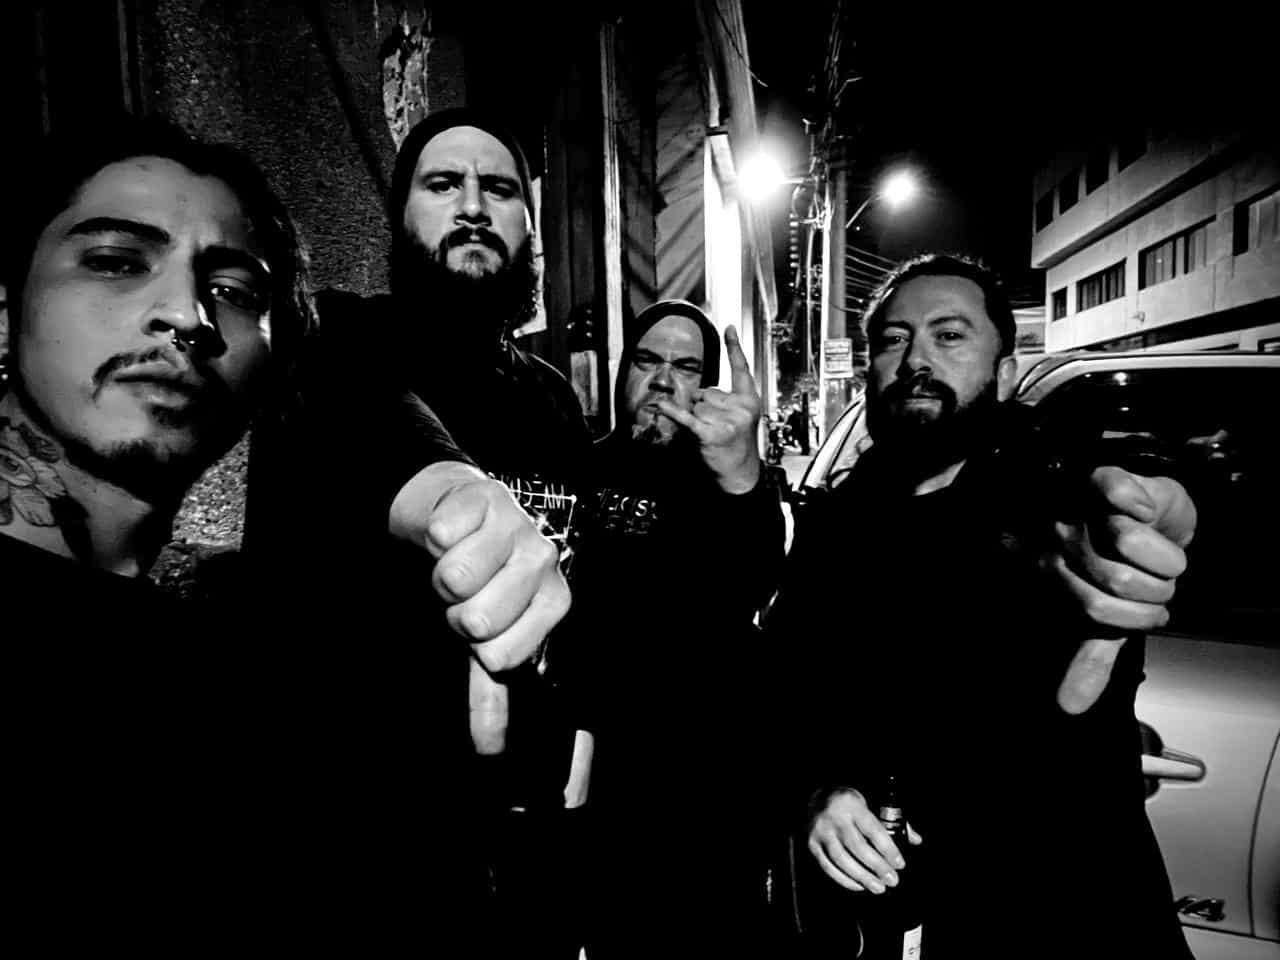
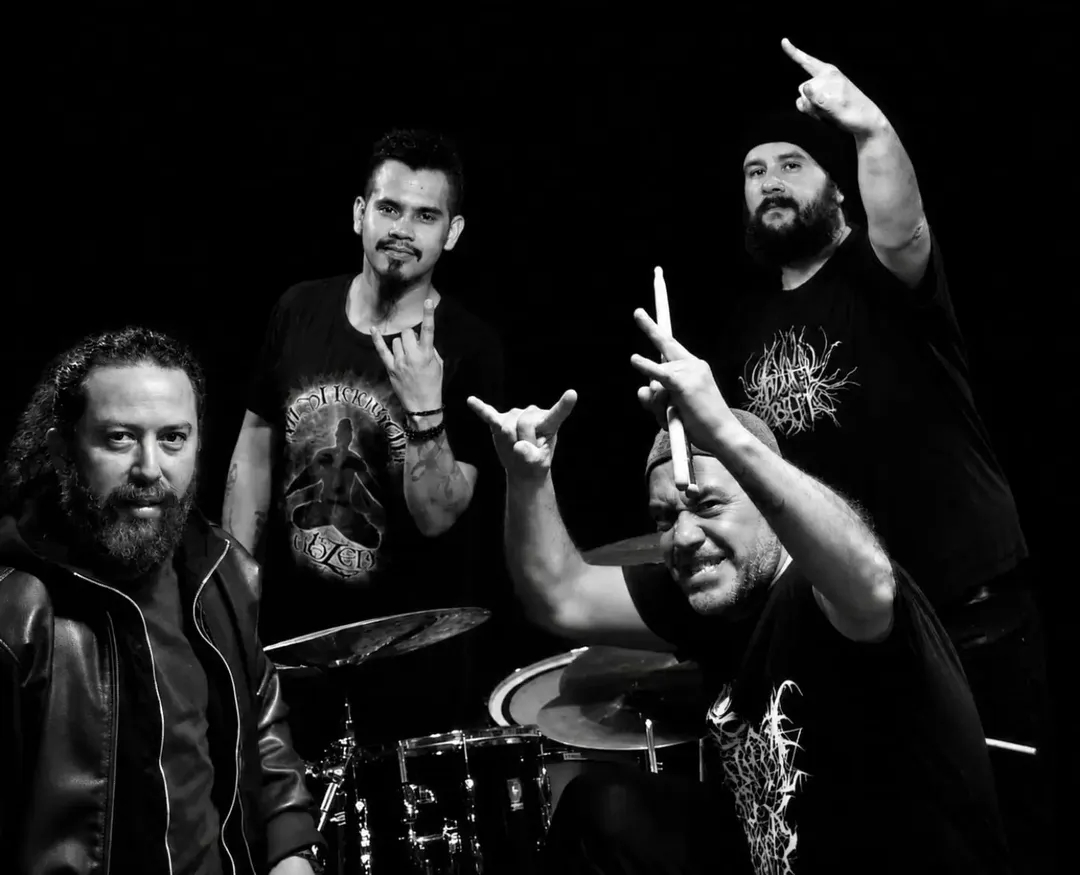
v0.1.0

diff --git a/src/sections/About.jsx b/src/sections/About.jsx
@@ -6,15 +6,20 @@ function About() {
     <section id="about" className="section section--muted">
       <div className="container two-columns">
         <div className="band-image">
-          <img src="/assets/Band.jpg" alt="Swarm Of Hatred 2025" />
+          <img src="/assets/Band.jpg" alt="Swarm Of Hatred 2026" />
         </div>
 
         <div>
           <SectionTitle
             eyebrow="About"
             title="Darkness, dissonance and devotion"
-            text="Swarm Of Hatred was conceived in 2009 in Santiago, Chile, as a solitary expression of dissonance and hostility. 
-            In 2011, the project was reborn under its current name, embracing a more focused and obscure vision. The debut manifestation, The Brotherhood Of The Black Blood (2014), marked the emergence of its sound, followed by Shrine Of Negativity (2018), expanding its sonic and conceptual depth. After years of silence, Obsidian Corridors (2021) surfaced as a transitional work, bridging past and future. A new full-length is currently in preparation."
+            text={`Swarm Of Hatred was conceived in 2009 in Santiago, Chile, as a solitary expression of dissonance and hostility.
+
+          In 2011, the project was reborn under its current name, embracing a more focused and obscure vision. The debut manifestation, The Brotherhood Of The Black Blood (2014), marked the emergence of its sound, followed by Shrine Of Negativity (2018), expanding its sonic and conceptual depth.
+
+          After years of silence, Obsidian Corridors (2021) surfaced as a transitional work, bridging past and future.
+
+          In 2026, Swarm Of Hatred unleashed “The Rise Of The Black Serpents,” the first single from its forthcoming second full-length album, Transdimensional Warmachine. This new chapter pushes the band's sonic identity further into dissonance, oppressive atmospheres, and otherworldly dimensions, heralding a new era of sonic devastation.`}
           />
 
           <p>
@@ -28,8 +33,8 @@ function About() {
             <b>Members:</b><br/>
             SDP - Guitars & Vocals<br/>
             CHJ - Lead Guitars<br/>
-            Benjamin Aguilera - Bass<br/>
-            Machinegun - Drums<br/>
+            Andres Lopez - Bass<br/>
+            Carlos Mendez - Drums<br/>
           </p>
         </div>
       </div>

diff --git a/src/data/siteData.js b/src/data/siteData.js
@@ -38,6 +38,13 @@ export const releases = [
     cover: '/assets/EP2021.jpg',
     description: 'Featuring two new songs and two old songs from The Brotherhoood Of The Black Blood era.'
   },
+  {
+    title: 'The Rise Of The Black Serpents',
+    year: '2026',
+    format: 'SINGLE',
+    cover: '/assets/SN2026.png',
+    description: 'First single from the forthcoming album, a glimpse into darkness and dissonance.'
+  },
   /*{
     title: 'Transdimensional Warmachine',
     year: 'TBA',
@@ -49,9 +56,15 @@ export const releases = [
 
 export const liveDates = [
   {
+    date: '2026-10-31',
+    city: 'Santiago, RM',
+    venue: 'Sala Warehouse',
+    note: `ECHOES OF DECADENCE II - Feat. Kythrone, Gutural Torment.`
+  },
+  {
     date: '2026-04-24',
     city: 'Santiago, RM',
     venue: 'La Comarca',
-    note: `FIGHT TILL DEATH VOL. I - Feat. Slaughterhouse, Camahueto, Dark Seducer y Death's Revenge.`
-  }
+    note: `FIGHT TILL DEATH VOL. I - Feat. Slaughterhouse, Camahueto, Dark Seducer & Death's Revenge.`
+  }  
 ];

diff --git a/src/styles/global.css b/src/styles/global.css
@@ -182,6 +182,10 @@ main {
   font-size: 1rem;
 }
 
+#about .section-title p {
+  white-space: pre-line;
+}
+
 .hero__text {
   max-width: 700px;
   margin-top: 1.5rem;
@@ -550,5 +554,4 @@ main {
       );
   }
 }
-
 

diff --git a/README.md b/README.md
@@ -1,47 +1,169 @@
 # Swarm Of Hatred
 
-SPA hecha con React + Vite para el sitio oficial de la banda.
+Sitio oficial de **Swarm Of Hatred**, banda chilena de black metal. Es una SPA estatica creada para concentrar la presentacion de la banda, su musica, discografia, canales sociales y datos de contacto en una sola pagina.
+
+No hay backend, autenticacion, base de datos ni formulario que procese informacion: el contenido se publica desde el codigo fuente y los enlaces llevan a servicios externos.
+
+## Que muestra el sitio
+
+- **Portada:** nombre de la banda, genero, procedencia, descripcion, accesos a musica y contacto, y redes sociales.
+- **About:** biografia, declaracion artistica e integrantes.
+- **Music:** reproductor embebido de Spotify para el perfil de artista.
+- **Discography:** lanzamientos con portada, ano, formato y descripcion. Se presentan del mas reciente al mas antiguo en un carrusel horizontal que admite arrastre con mouse y desplazamiento nativo en pantallas tactiles.
+- **Contact:** enlace `mailto:` para booking, prensa y consultas, junto con las redes sociales.
+- **Pie de pagina:** aviso de derechos con el ano calculado automaticamente.
+
+La navegacion superior usa anclas internas y desplazamiento suave. El diseno es oscuro, responsive y mantiene la cabecera visible al desplazarse.
+
+## Estado de las secciones
+
+| Seccion | Estado | Fuente de contenido |
+| --- | --- | --- |
+| Portada | Visible | `bandData` y `Hero.jsx` |
+| About | Visible | `About.jsx` |
+| Musica | Visible | `bandData.musicEmbed` |
+| Discografia | Visible | `releases` |
+| Fechas en vivo | Preparada, no publicada | `liveDates` y `Live.jsx` |
+| Contacto | Visible | `bandData.contactEmail` y `bandData.socials` |
+
+`Live.jsx` y el arreglo `liveDates` estan implementados, pero `App.jsx` no monta la seccion y la opcion correspondiente esta comentada en `Navbar.jsx`. Para hacer visibles las fechas, hay que renderizar `<Live />` en `App.jsx` y habilitar su enlace de navegacion.
+
+## Stack tecnico
+
+- React 18
+- Vite 5
+- React DOM
+- CSS global sin bibliotecas de componentes
+- Spotify Embed para la reproduccion de musica
+- Vercel configurado para alojar la SPA
 
 ## Requisitos
 
 - Node.js 18 o superior
 - npm
 
-## Instalar
+## Ejecucion local
+
+Instala las dependencias:
 
 ```bash
 npm install
 ```
 
-## Levantar en local
+Inicia el servidor de desarrollo:
 
 ```bash
 npm run dev
 ```
 
-## Build producción
+Vite mostrara en la terminal la URL local para abrir el sitio.
+
+## Scripts disponibles
+
+| Comando | Funcion |
+| --- | --- |
+| `npm run dev` | Inicia Vite en modo desarrollo con recarga en caliente. |
+| `npm run build` | Genera la version optimizada en `dist/`. |
+| `npm run preview` | Sirve localmente el ultimo build de produccion. |
+
+## Estructura del proyecto
+
+```text
+.
+|- public/
+|  |- assets/             # Foto de banda y portadas servidas sin procesar
+|  |- calaca-swarm.png    # Ilustracion del hero
+|  |- favicon.png         # Recurso favicon disponible
+|  `- og-image.jpg        # Imagen para compartir en redes
+|- src/
+|  |- assets/             # Fondo y recursos de desarrollo del hero
+|  |- components/         # Navbar, Footer, SectionTitle y SocialLinks
+|  |- data/siteData.js    # Datos centralizados de banda, discos y shows
+|  |- sections/           # Bloques de contenido de la pagina
+|  |- styles/global.css   # Estilos, layout y media queries
+|  |- App.jsx             # Orden y secciones publicadas de la SPA
+|  `- main.jsx            # Punto de entrada React
+|- index.html             # Metadatos SEO/OG, fuentes y raiz de la app
+|- vercel.json            # Fallback de rutas al index de la SPA
+`- package.json           # Dependencias y scripts
+```
+
+## Gestion de contenido
+
+### Datos centralizados
+
+El archivo `src/data/siteData.js` concentra los datos que conviene actualizar periodicamente:
+
+- `bandData.name`, `tagline`, `location` y `description`: identidad y texto de portada.
+- `bandData.socials`: URLs de Instagram, Facebook, YouTube, Spotify y Bandcamp. `SocialLinks.jsx` las recorre automaticamente, por lo que aparecen tanto en la portada como en contacto.
+- `bandData.musicEmbed`: URL del `iframe` de Spotify.
+- `bandData.contactEmail`: correo que usa el enlace de contacto.
+- `releases`: catalogo de la discografia.
+- `liveDates`: eventos futuros para la seccion Live cuando se habilite.
+
+Cada lanzamiento de `releases` usa esta forma:
+
+```js
+{
+  title: 'Nombre del lanzamiento',
+  year: '2026',
+  format: 'LP',
+  cover: '/assets/portada.jpg',
+  description: 'Descripcion breve.'
+}
+```
+
+La interfaz invierte el arreglo antes de mostrarlo. Conviene guardar los lanzamientos en orden cronologico ascendente dentro de `siteData.js` para que se vean de mas nuevo a mas antiguo.
+
+La biografia, declaracion y formacion actual estan escritas directamente en `src/sections/About.jsx`.
+
+### Imagenes y recursos
+
+- Las portadas de los discos y la fotografia de la banda se referencian desde `public/assets/`, mediante rutas como `/assets/LP2018.jpg`.
+- La ilustracion de la portada se carga desde `public/calaca-swarm.png`.
+- El fondo del hero se declara en `src/styles/global.css` como `/src/assets/hero-bg.jpg`.
+- `public/og-image.jpg` se utiliza como imagen Open Graph en `index.html`.
+
+Al sustituir una imagen publica, conserva o actualiza exactamente la ruta indicada en el componente o en `siteData.js`.
+
+## Personalizacion visual y metadatos
+
+- Ajusta colores, tipografia, espaciados y comportamiento responsive en `src/styles/global.css`.
+- La fuente Josefin Sans se carga desde Google Fonts en `index.html`.
+- Actualiza titulo, descripcion, Open Graph y color del tema en `index.html` al cambiar la identidad o el material promocional.
+- El documento HTML declara `lang="en"` porque la interfaz publicada esta principalmente en ingles. Cambialo si se localiza el sitio a otro idioma.
+
+## Despliegue en Vercel
+
+El proyecto incluye `vercel.json` con una reescritura de cualquier ruta a `index.html`. Esto permite que una SPA siga cargando aunque se acceda directamente a una ruta del dominio.
+
+Para desplegarlo:
+
+1. Sube el repositorio a GitHub, GitLab o Bitbucket.
+2. Importalo desde Vercel.
+3. Selecciona el preset **Vite**.
+4. Usa `npm run build` como comando de compilacion.
+5. Define `dist` como directorio de salida si Vercel no lo detecta automaticamente.
+6. Publica el despliegue.
+
+No se requieren variables de entorno para el estado actual del sitio.
+
+## Verificacion
+
+Antes de publicar cambios, genera el build de produccion:
 
 ```bash
 npm run build
 ```
 
-## Deploy en Vercel
+El proyecto no incluye pruebas automatizadas ni configuracion de lint. La comprobacion recomendada es revisar el build y abrir `npm run preview` para validar enlaces, imagenes, reproductor y vista movil.
 
-1. Sube el proyecto a GitHub.
-2. Entra a Vercel.
-3. Importa el repositorio.
-4. Framework preset: **Vite**.
-5. Build command: `npm run build`
-6. Output directory: `dist`
+## Consideraciones actuales
 
-## Cosas que deberías editar primero
+- La disponibilidad del reproductor depende de Spotify y de que el navegador permita el contenido embebido.
+- Las redes sociales abren en una pestana nueva; el correo abre el cliente de correo configurado por la persona visitante.
+- `index.html` referencia `favicon-16.png` y `favicon-32.png`, pero los recursos presentes en `public/` se llaman `favicon.png`. Si se requieren iconos en esas medidas, deben agregarse o actualizarse las referencias.
 
-- `src/data/siteData.js`
-- `src/styles/global.css`
-- imágenes en `src/assets/`
-- textos del bio, discografía y contacto
+## Licencia
 
-## Notas
-
-- `vercel.json` fuerza el fallback a `index.html`, útil para SPA.
-- Puedes cambiar el embed de Bandcamp por Spotify o YouTube.
+No se ha definido una licencia en el repositorio. No reutilices el codigo, las imagenes ni el material de la banda fuera de los permisos aplicables.
